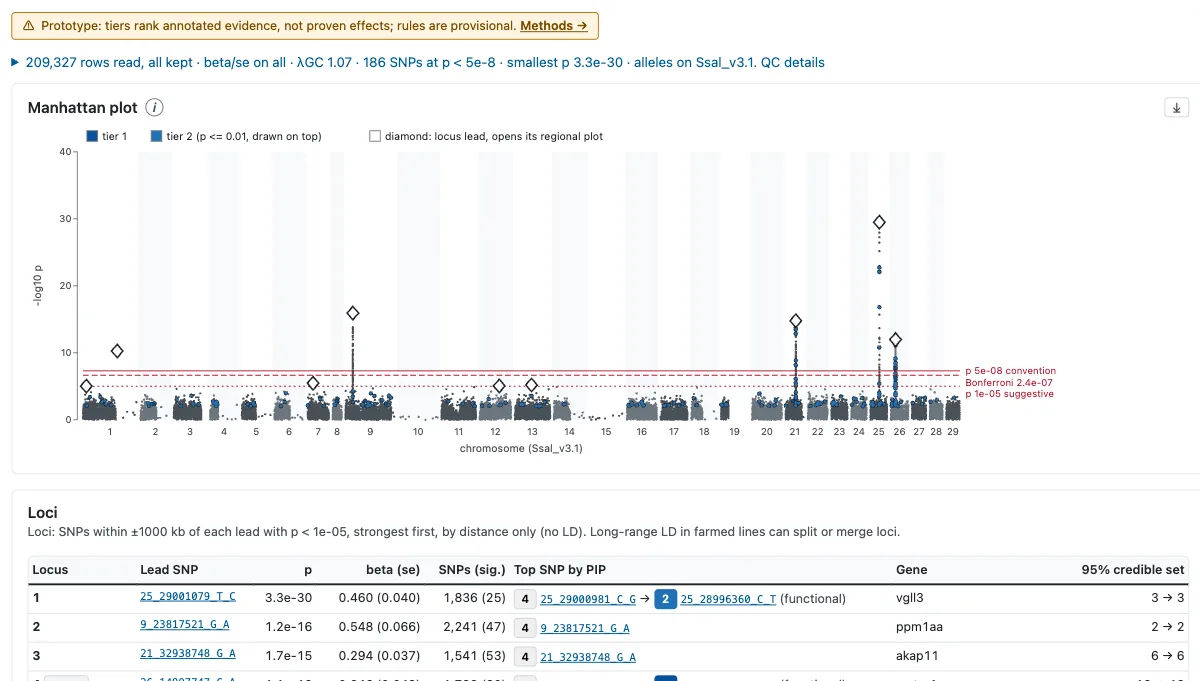
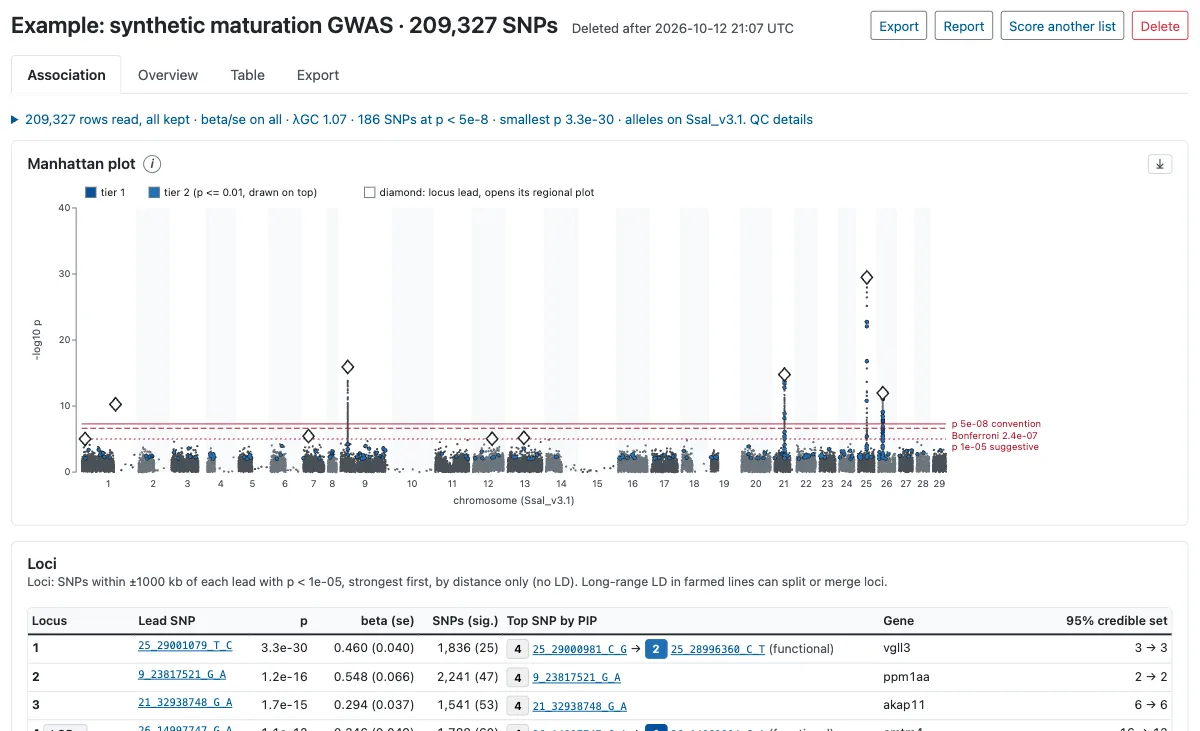
Remove the prototype caveat line from the pages
Methods, the report and every download still say the rules are provisional; a synthetic job's title says so.

diff --git a/snpportal/snpportal/templates/snpportal/_badges.html b/snpportal/snpportal/templates/snpportal/_badges.html
@@ -1,7 +1,7 @@
 {% comment %}One badge. {% include 'snpportal/_badges.html' with kind='tier' value=2 %}; kinds: tier (short=1 prints the
    number only), flag (value = text), evidence (value = text, cls = missense|gwas|marker|region|allele|caveat,
-   tip = tooltip). Colours come from palette.py. Pages that show tiers carry one caveat line (_caveat.html), not
-   PROVISIONAL or SYNTHETIC badges.{% endcomment %}
+   tip = tooltip). Colours come from palette.py. No PROVISIONAL or SYNTHETIC badges: a synthetic job's
+   title says so.{% endcomment %}
 {% if kind == 'tier' %}<span class="sp-badge sp-tier-{{ value }}" title="{% if value == 4 %}Tier 4: no evidence found (not evidence of no effect){% else %}Tier {{ value }}: 1 = strongest functional evidence, 4 = no evidence found{% endif %}">{% if short %}{{ value }}{% else %}Tier {{ value }}{% endif %}</span>
 {% elif kind == 'flag' %}<span class="sp-badge sp-badge-flag">{{ value }}</span>
 {% elif kind == 'evidence' %}<span class="sp-badge sp-ev sp-ev-{{ cls }}"{% if tip %} title="{{ tip }}"{% endif %}>{{ value }}</span>{% endif %}

diff --git a/snpportal/snpportal/static/snpportal/portal.css b/snpportal/snpportal/static/snpportal/portal.css
@@ -57,11 +57,10 @@
 .sp-card h3 { font-size: .9rem; font-weight: 600; margin: 1rem 0 .4rem; }
 a.sp-card { display: block; text-decoration: none; color: var(--sp-grey-900); }
 a.sp-card:hover { border-color: var(--sp-accent); }
-/* one caveat line under the header of pages that show tiers (_caveat.html), and closed 'More ...' sections */
+/* the Methods page's caveat line, and closed 'More ...' sections */
 .sp-caveat { display: table; color: var(--sp-warn-text); background: var(--sp-warn-bg); border: 1px solid var(--sp-warn-border);
   border-radius: .25rem; padding: .2rem .65rem; margin: 0 0 .75rem; }  /* the prototype warning: fits its text */
 .sp .sp-caveat a { color: var(--sp-warn-text); font-weight: 600; }
-.sp-warn-icon { font-size: 1.05em; margin-right: .2rem; }
 .sp-more > summary { cursor: pointer; color: var(--sp-link); font-size: .875rem; margin: .25rem 0; }
 .sp-faq > details { border-top: 1px solid var(--sp-grey-200); padding: .35rem 0; }
 .sp-faq > details:last-child { border-bottom: 1px solid var(--sp-grey-200); }

diff --git a/snpportal/snpportal/static/snpportal/tour/tour.css b/snpportal/snpportal/static/snpportal/tour/tour.css
@@ -29,10 +29,10 @@
 #tour-panel-2 { left: 2.42%; top: 35.52%; width: 45.83%; height: 24.15%; }
 #tour-panel-3 { left: 2.42%; top: 66.68%; width: 45.83%; height: 9.56%; }
 #tour-panel-4 { left: 50.33%; top: 6.47%; width: 48.67%; height: 22.08%; }
-#tour-gwas img { aspect-ratio: 1200 / 682; }
-#tour-gwas-1 { left: 72.26%; top: 30.68%; width: 2.07%; height: 3.65%; }
-#tour-gwas-2 { left: 2.07%; top: 81.06%; width: 24.59%; height: 17.81%; }
-#tour-gwas-3 { left: 42.19%; top: 81.06%; width: 32.49%; height: 17.81%; }
+#tour-gwas img { aspect-ratio: 1200 / 731; }
+#tour-gwas-1 { left: 71.23%; top: 36.28%; width: 2.04%; height: 3.35%; }
+#tour-gwas-2 { left: 2.04%; top: 82.59%; width: 24.25%; height: 16.37%; }
+#tour-gwas-3 { left: 41.59%; top: 82.59%; width: 32.03%; height: 16.37%; }
 #tour-more img { aspect-ratio: 1200 / 649; }
 #tour-more-1 { left: 34.02%; top: 0.00%; width: 9.31%; height: 7.45%; }
 #tour-more-2 { left: 42.59%; top: 0.00%; width: 11.22%; height: 7.45%; }

diff --git a/snpportal/snpportal/templates/snpportal/locus.html b/snpportal/snpportal/templates/snpportal/locus.html
@@ -27,7 +27,6 @@
     <a href="{% url 'snpportal:locus' %}?{{ centre_query }}">Show the central 2 Mb</a>, or browse whole chromosomes in
     <a href="https://salmobase.org/jbrowse/" rel="noreferrer noopener" target="_blank">salmobase JBrowse</a>.</div>
   {% elif groups %}
-  {% if s.key or synthetic %}{% include 'snpportal/_caveat.html' with synthetic=synthetic %}{% endif %}
   {% for note in notes %}<div class="sp-status sp-status-warn" role="status">&#9888; {{ note }}</div>{% endfor %}
   {% if truncated %}<div class="sp-status sp-status-warn" role="status">&#9888; Some lanes are cut short in this wide window: zoom in to see all of {{ truncated|join:", " }}.</div>{% endif %}
   <p class="sp-small sp-muted mb-1">This region in <a href="{{ jbrowse }}" rel="noreferrer noopener" target="_blank">salmobase JBrowse</a> &middot;

diff --git a/snpportal/snpportal/templates/snpportal/association_region.html b/snpportal/snpportal/templates/snpportal/association_region.html
@@ -3,7 +3,6 @@
 {% comment %}Regional association plot (P7.3): the GWAS lane above genes, published loci, the trait's chromatin rows and
    GERP, one SVG on one x axis; then the locus's 95% credible-set SNPs under both priors.{% endcomment %}
 {% block main %}
-{% include 'snpportal/_caveat.html' with synthetic=synthetic %}
 <div class="d-flex flex-wrap align-items-center gap-2 mb-2 sp-small" role="toolbar" aria-label="Loci and window">
   {% for x in loci %}<a class="btn btn-sm {% if current and x.locus == current.locus %}btn-primary{% else %}btn-outline-secondary{% endif %}"
      href="{{ x.region }}"{% if current and x.locus == current.locus %} aria-current="page"{% endif %}>Locus {{ x.locus }} · chr{{ x.chrom }}</a>{% endfor %}

diff --git a/snpportal/snpportal/templates/snpportal/association.html b/snpportal/snpportal/templates/snpportal/association.html
@@ -25,7 +25,6 @@
     <li class="nav-item"><a class="nav-link" href="{% url 'snpportal:results' key %}?{{ query }}&amp;tab=table">Table</a></li>
     <li class="nav-item"><a class="nav-link" href="{% url 'snpportal:results' key %}?{{ query }}&amp;tab=export">Export</a></li>
   </ul>
-  {% include 'snpportal/_caveat.html' with synthetic=synthetic %}
 
   <details class="sp-more mb-2"{% if qc_line.1 %} open{% endif %}><summary>{{ qc_line.0 }}. QC details</summary>
     <dl class="sp-dl sp-small mb-2">{% for name, value in qc %}<dt>{{ name }}</dt><dd>{{ value|thousands }}</dd>{% endfor %}</dl>

diff --git a/snpportal/snpportal/templates/snpportal/_page_header.html b/snpportal/snpportal/templates/snpportal/_page_header.html
@@ -1,6 +1,6 @@
 {% comment %}Breadcrumb, H1, meta line and actions. Context: title, crumbs [(label, url or None)], meta,
-   actions [{label, url, post, style, confirm, download}]. No badges in the H1: pages that show tiers include
-   _caveat.html instead; a synthetic job's title says so (views.results).{% endcomment %}
+   actions [{label, url, post, style, confirm, download}]. No badges in the H1: a synthetic job's title says
+   so (views.results).{% endcomment %}
 {% if crumbs %}{% include 'snpportal/_crumbs.html' %}{% endif %}
 <header class="sp-page-header">
   <div>

diff --git a/snpportal/snpportal/templates/snpportal/results.html b/snpportal/snpportal/templates/snpportal/results.html
@@ -3,8 +3,6 @@
 
 {% block portal_head %}{% if job.state == 'queued' or job.state == 'running' %}<noscript><meta http-equiv="refresh" content="3"></noscript>{% endif %}{% endblock portal_head %}
 
-{% block page_header %}{% if job.state == 'done' %}{% include 'snpportal/_caveat.html' %}{% endif %}{{ block.super }}{% endblock page_header %}
-
 {% block main %}
 {% if job.state == 'queued' or job.state == 'running' %}
   {% include 'snpportal/_progress.html' %}

diff --git a/snpportal/snpportal/templates/snpportal/variant.html b/snpportal/snpportal/templates/snpportal/variant.html
@@ -1,3 +1,3 @@
 {% extends 'snpportal/base_portal.html' %}
 {% comment %}Permanent variant page: the evidence card for one position, annotated on the fly (no upload).{% endcomment %}
-{% block main %}<div class="sp-narrow">{% include 'snpportal/_caveat.html' with synthetic=synthetic %}{% include 'snpportal/card.html' %}</div>{% endblock main %}
+{% block main %}<div class="sp-narrow">{% include 'snpportal/card.html' %}</div>{% endblock main %}

diff --git a/snpportal/snpportal/templates/snpportal/gene.html b/snpportal/snpportal/templates/snpportal/gene.html
@@ -4,7 +4,6 @@
    (then 'Show all'); the element grid closed. The conditions, flank and sort apply on change (htmx swaps #gene).{% endcomment %}
 {% block main %}
 <div id="gene" hx-target="#gene" hx-select="#gene" hx-swap="outerHTML">
-{% include 'snpportal/_caveat.html' with synthetic=synthetic %}
 <div class="row g-3 mb-3">
   <div class="col-lg-5">
     <section class="sp-card" aria-labelledby="about-h">

diff --git a/snpportal/snpportal/tests_gwas.py b/snpportal/snpportal/tests_gwas.py
@@ -117,8 +117,8 @@ class GwasTest(SimpleTestCase):
         response = self.client.get(self.page)
         self.assertEqual(response.status_code, 200)
         html = response.content.decode()
-        top = html[:html.index('id="fig-manhattan"')]  # answer first: one caveat line, one QC line
-        self.assertIn("Prototype: tiers rank", top[top.index("sp-caveat"):])
+        top = html[:html.index('id="fig-manhattan"')]  # answer first: one QC line above the Manhattan plot
+        self.assertNotIn("Prototype: tiers rank", html)  # no prototype line on the pages
         self.assertNotIn("SYNTHETIC data", html)  # synthetic is said once, in the results title
         report = jobs.read_json(jobs.folder(self.key) / "gwas.json")
         self.assertLess(abs(report["lambda_gc"] - self.lambda_gc), 0.01)
@@ -204,7 +204,6 @@ class GwasTest(SimpleTestCase):
         self.assertNotIn('fill-opacity="0.85"', svg)  # no ATAC rows: they stay in the locus browser
         self.assertNotIn(">Public variants</text>", svg)
         self.assertIn("No LD used: colours are tiers, not r²", svg)
-        self.assertIn("Prototype: tiers rank", html[:html.index('id="fig-region"')])  # the caveat line
         credible = html[html.index('id="credible"'):]
         self.assertIn(causal, credible)  # the credible-set SNPs under both priors, linked to their cards
         card = re.search(rf'href="(/snp/results/{self.key}/snp/\d+/\?trait=[^"]*)">{re.escape(causal)}<', credible).group(1)

diff --git a/snpportal/snpportal/tests_results.py b/snpportal/snpportal/tests_results.py
@@ -141,8 +141,8 @@ class ResultsTest(SimpleTestCase):
         rows = re.findall(r'font-size="12.5" font-weight="600">([^<]*)</text>', summary)
         self.assertEqual(rows, ["Tier for all conditions", "Gene region", "Near a known locus"] + ["Assay check"] * ("assay_status" in self.columns))
         self.assertIn('href="?tab=table&amp;trait=all&amp;tier=1-2"', summary)  # every part lists its SNPs, Active in reset
-        self.assertNotIn("PROVISIONAL", re.sub(r"<svg .*?</svg>", "", page, flags=re.S))  # no badges: one caveat line
-        self.assertEqual(page.count('class="sp-caveat'), 1)  # one caveat line
+        self.assertNotIn("PROVISIONAL", re.sub(r"<svg .*?</svg>", "", page, flags=re.S))  # no badges
+        self.assertNotIn('class="sp-caveat', page)  # no prototype line on the pages
         self.assertEqual('id="qc" open' in page, results.qc_problem(jobs.read_json(self.d / "validation.json")))  # one QC line
         found = svgs(page)
         self.assertGreaterEqual(len(found), len(expected))
